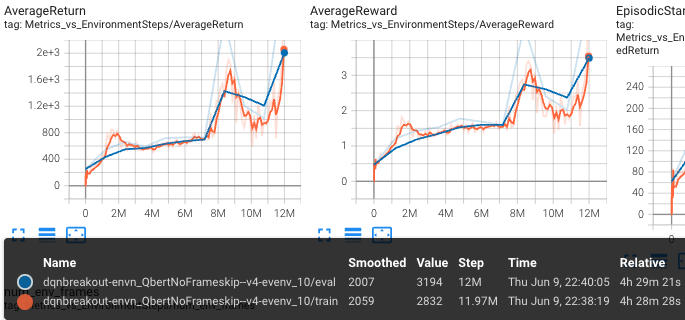
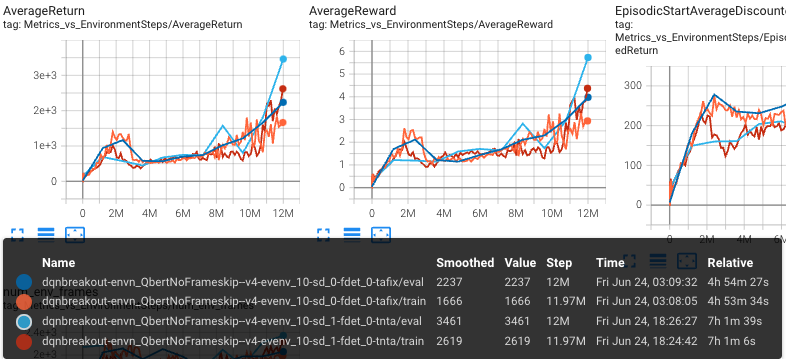
address comments, fix target action from target q net, fix action_prob, remove irrelevant tb plots

diff --git a/alf/algorithms/dqn_algorithm.py b/alf/algorithms/dqn_algorithm.py
@@ -22,9 +22,10 @@ from alf.algorithms.config import TrainerConfig
 from alf.algorithms.sac_algorithm import SacAlgorithm, ActionType, \
     SacState as DqnState, SacCriticState as DqnCriticState, \
     SacActionState as DqnActionState, \
-    SacInfo as DqnInfo, SacCriticInfo as DqnCriticInfo
+    SacInfo as DqnInfo, SacCriticInfo as DqnCriticInfo, \
+    SacLossInfo as DqnLossInfo
 from alf.algorithms.td_loss import TDLoss
-from alf.data_structures import AlgStep, TimeStep
+from alf.data_structures import AlgStep, LossInfo, TimeStep
 from alf.environments.alf_environment import AlfEnvironment
 from alf.networks import QNetwork
 from alf.optimizers import AdamTF
@@ -51,11 +52,12 @@ class DqnAlgorithm(SacAlgorithm):
 
     def __init__(self,
                  observation_spec: alf.tensor_specs.NestedTensorSpec,
-                 action_spec: alf.tensor_specs.NestedTensorSpec,
+                 action_spec: alf.tensor_specs.BoundedTensorSpec,
                  reward_spec: TensorSpec = TensorSpec(()),
                  q_network_cls: Callable[..., QNetwork] = QNetwork,
                  q_optimizer: Optional[torch.optim.Optimizer] = None,
                  rollout_epsilon_greedy: Union[float, Scheduler] = 0.1,
+                 target_net_target_action: bool = True,
                  num_critic_replicas: int = 2,
                  env: Optional[AlfEnvironment] = None,
                  config: Optional[TrainerConfig] = None,
@@ -65,11 +67,7 @@ class DqnAlgorithm(SacAlgorithm):
         """
         Args:
             observation_spec (nested TensorSpec): representing the observations.
-            action_spec (nested BoundedTensorSpec): representing the actions; can
-                be a mixture of discrete and continuous actions. The number of
-                continuous actions can be arbitrary while only one discrete
-                action is allowed currently. If it's a mixture, then it must be
-                a tuple/list ``(discrete_action_spec, continuous_action_spec)``.
+            action_spec (BoundedTensorSpec): Only one discrete action allowed.
             reward_spec (TensorSpec): a rank-1 or rank-0 tensor spec representing
                 the reward(s).
             q_network: is used to construct QNetwork for estimating ``Q(s,a)``
@@ -82,6 +80,9 @@ class DqnAlgorithm(SacAlgorithm):
                 can be converted to a DQN or DDQN algorithm when e.g.
                 ``rollout_epsilon_greedy=0.3``, ``max_target_action=True``, and
                 ``use_entropy_reward=False``.
+            target_net_target_action: when ``True`` uses target critic network to get
+                target action (similar as DDPG).  When ``False``, uses
+                critic network to get target action (similar as DDQN/SAC).
             num_critic_replicas: number of critics to be used. Default is 2.
             env: The environment to interact with. ``env`` is a
                 batched environment, which means that it runs multiple simulations
@@ -96,6 +97,7 @@ class DqnAlgorithm(SacAlgorithm):
             name (str): The name of this algorithm.
         """
         self._rollout_epsilon_greedy = as_scheduler(rollout_epsilon_greedy)
+        self._target_net_target_action = target_net_target_action
         # Disable alpha learning:
         alpha_optimizer = AdamTF(lr=0)
 
@@ -127,8 +129,16 @@ class DqnAlgorithm(SacAlgorithm):
                         eps_greedy_sampling=False):
         new_state = DqnActionState()
         critic_network_inputs = (observation, None)
+
+        # NOTE: This block departs from SAC:
+        if eps_greedy_sampling or not self._target_net_target_action:
+            # SAC always uses critic_networks to obtain action,
+            # even during training
+            nets = self._critic_networks
+        else:
+            nets = self._target_critic_networks
         q_values, critic_state = self._compute_critics(
-            self._critic_networks, *critic_network_inputs, state.critic)
+            nets, *critic_network_inputs, state.critic)
         new_state = new_state._replace(critic=critic_state)
 
         # NOTE: This block departs from SAC:
@@ -150,9 +160,9 @@ class DqnAlgorithm(SacAlgorithm):
             probs = torch.zeros_like(q_values)
             greedy_act_prob = 1
         greedy_action = torch.argmax(q_values, dim=-1)
-        probs[(torch.arange(size[0]), greedy_action)] = greedy_act_prob
+        probs[torch.arange(size[0]), greedy_action] = greedy_act_prob
         action_dist = td.Categorical(probs=probs)
-        action = dist_utils.epsilon_greedy_sample(action_dist, eps=0.)
+        action = dist_utils.sample_action_distribution(action_dist)
 
         return action_dist, action, q_values, new_state
 
@@ -190,3 +200,11 @@ class DqnAlgorithm(SacAlgorithm):
             output=action,
             state=new_state,
             info=DqnInfo(action=action, action_distribution=action_dist))
+
+    def calc_loss(self, info: DqnInfo):
+        # Adapted from SAC: Removes irrelevant losses and logging.
+        critic_loss = self._calc_critic_loss(info)
+        return LossInfo(
+            loss=critic_loss.loss,
+            priority=critic_loss.priority,
+            extra=DqnLossInfo(critic=critic_loss.extra, actor=(), alpha=()))

diff --git a/README.md b/README.md
@@ -22,6 +22,7 @@ Read the ALF documentation [here](https://alf.readthedocs.io/).
 |[A2C](alf/algorithms/actor_critic_algorithm.py)|On-policy RL|[OpenAI Baselines: ACKTR & A2C](https://openai.com/blog/baselines-acktr-a2c/)|
 |[PPO](alf/algorithms/ppo_algorithm.py)|On-policy RL|Schulman et al. "Proximal Policy Optimization Algorithms" [arXiv:1707.06347](https://arxiv.org/abs/1707.06347)|
 |[PPG](alf/algorithms/ppo_algorithm.py)|On-policy RL|Cobbe et al. "Phasic Policy Gradient" [arXiv:2009.04416](https://arxiv.org/abs/2009.04416)|
+|[DDQN](alf/algorithms/dqn_algorithm.py)|Off-policy RL|Hasselt et al. "Deep Reinforcement Learning with Double Q-learning" [arXiv:1509.06461](https://arxiv.org/abs/1509.06461)|
 |[DDPG](alf/algorithms/ddpg_algorithm.py)|Off-policy RL|Lillicrap et al. "Continuous control with deep reinforcement learning" [arXiv:1509.02971](https://arxiv.org/abs/1509.02971)|
 |[QRSAC](alf/algorithms/qrsac_algorithm.py)|Off-policy RL|Dabney et al. "Distributional Reinforcement Learning with Quantile Regression" [arXiv:1710.10044](https://arxiv.org/abs/1710.10044)|
 |[SAC](alf/algorithms/sac_algorithm.py)|Off-policy RL|Haarnoja et al. "Soft Actor-Critic Algorithms and Applications" [arXiv:1812.05905](https://arxiv.org/abs/1812.05905)|
@@ -138,6 +139,11 @@ All the examples below are trained on a single machine Intel(R) Core(TM) i9-7960
 * [MetaDrive](alf/examples/metadrive/ppg_metadrive_conf.py). Learning to drive on randomly generated map with interaction on the [MetaDrive](https://metadriverse.github.io/metadrive/) simulator, with BEV as input. Need to install python package [metadrive-simulator](https://github.com/metadriverse/metadrive).
 
   <img src="alf/examples/metadrive/ppg_metadrive.jpg" width="300" height="200" alt="ppg_metadrive-curve"/> <img src="alf/examples/metadrive/ppg_metadrive.gif" height="200" alt="ppg-metadrive-video"/>
+
+### DDQN
+* [DDQN on Atari](alf/examples/dqn_breakout_conf.py).  Game "Q*Bert" performance.
+
+  <img src="alf/examples/dqn_breakout_conf_Qbert.png" width = "300" height ="200" alt="Q*Bert-DDQN-training-curve"/>
 
 ### DDPG
 * [FetchSlide (sparse rewards)](alf/examples/ddpg_fetchslide_conf.py). Need to install the [MuJoCo](https://www.roboti.us/index.html) simulator first. This example reproduces the performance of vanilla DDPG reported in the OpenAI's Robotics environment [paper](https://arxiv.org/pdf/1802.09464.pdf). Our implementation doesn't use MPI, but obtains (evaluation) performance on par with the original implementation. (*The original MPI implementation has 19 workers, each worker containing 2 environments for rollout and sampling a minibatch of size 256 from its replay buffer for computing gradients. All the workers' gradients will be summed together for a centralized optimizer step. Our implementation simply samples a minibatch of size 5000 from a common replay buffer per optimizer step.*) The training took about 1 hour with 38 (19*2) parallel environments on a single GPU.
